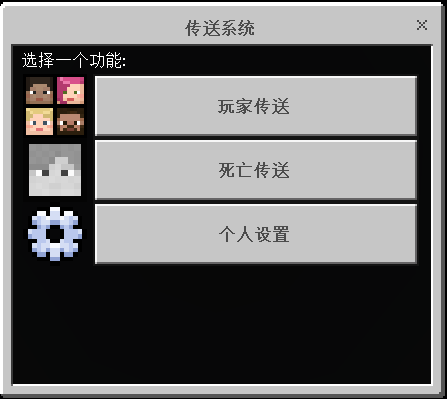
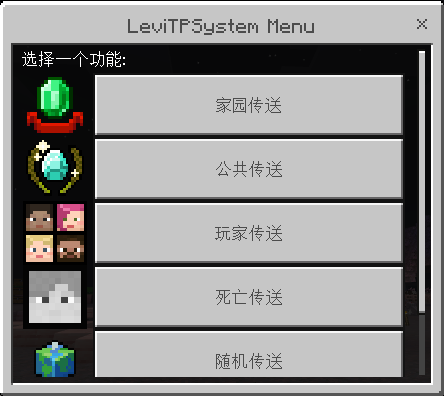
8.5.0官网更新

diff --git a/plugins/1.md b/plugins/1.md
@@ -25,18 +25,44 @@
 
 ![alt text](/public/1-3.png)
 
+## Home 命令
+
+/tps home 家园传送点 GUI
+
+/tps home add <name: string> 添加一个家
+
+/tps home del <name: string> 删除一个家
+
+/tps home go <name: string> 前往家
+
+/tps home list 列出所有家
+![alt text](/public/1-8.png)
+
+## 公共传送点 命令
+
+/tps warp 公共传送点 GUI
+
+/tps warp add <name: string> 添加一个公共传送点（权限组允许）
+
+/tps warp del <name: string> 删除一个公共传送点（权限组允许）
+
+/tps warp go <name: string> 前往公共传送点
+
+/tps warp list 列出所有公共传送点
+![alt text](/public/1-7.png)
+
 ## Back 命令：
 
-/tps back 返回死亡点 GUI（玩家）
+/tps back 返回死亡点 GUI
 
 ![alt text](/public/1-4.png)
 
 ## 其他命令：
 
-/tps death 查询死亡信息（玩家）
+/tps death 查询死亡信息
 
 ![alt text](/public/1-5.png)
 
-/tps rule 打开规则配置（玩家）
+/tps rule 打开规则配置
 
 ![alt text](/public/1-2.png)

diff --git a/README.md b/README.md
@@ -11,6 +11,7 @@
 - [√] 优化良好
 - [√] 机制完善
 - [√] 问题修复有效率
+- [√] 杜绝一切作弊行为
 
 ## 服务器插件功能
 
@@ -18,11 +19,13 @@
 - [√] 基于原版进一步的辅助插件
 - [√] 群组互通
 - [√] QBOT 绑定游戏
+- [√] 怪物数值增强
+- [√] 超越底层代码的机制
 
 ## 服务器版本/信息
 
-地图种子：241001
-[点我快速跳转种子网站](https://www.chunkbase.com/apps/seed-map#seed=241001&platform=bedrock_1_21&dimension=overworld&x=0&z=0&zoom=0.5)<br/>模拟距离：8<br/>
+地图种子：241208
+[点我快速跳转种子网站](https://www.chunkbase.com/apps/seed-map#seed=241208&platform=bedrock_1_21&dimension=overworld&x=0&z=0&zoom=0.5)<br/>模拟距离：12<br/>
 [1.21.x](https://mc.minebbs.com/version/409)<br/>
 [![alt text](/public/版本.png)](https://mc.minebbs.com/version/409)<br/>
 注：点击图片或版本号可以跳转对应服务器版本的下载链接

diff --git a/index.md b/index.md
@@ -38,10 +38,8 @@ features:
 
 ```点我可以复制哦~
 版本：基岩版1.21.x (不支持1.21.2x)
-IP：敬请期待
-端口：敬请期待
+IP：45.125.45.74
+端口：52700
 ```
 
 ## 阿什么？<br/>你并未获邀在此服务器上进行游戏？<br/>进群修改群昵称为游戏 ID 发送"绑定"(不包括引号)即可进服
-
-## 阿什么？<br/>你并未通过入服考试？<br/>去群文件刷刷题吧孩子

diff --git a/plugins/4.md b/plugins/4.md
@@ -1,4 +1,4 @@
-# AutoReplenishment - 自动替换工具与补充物品
+# AutoReplenishment - 自动替换工具与补充物品 XXXX
 
 > 玩家们可以使用这个插件来做到自动替换工具和自动补充方块
 

diff --git a/plugins/18.md b/plugins/18.md
@@ -1,4 +1,4 @@
-# Change - 玩家付费更换天气/时间
+# Change - 玩家付费更换天气/时间 XXXX
 
 > 玩家们可以使用这个插件做到付费更换天气/时间插件
 

diff --git a/plugins/8.md b/plugins/8.md
@@ -1,4 +1,4 @@
-# FuckNetherHeight - 突破下界高度
+# FuckNetherHeight - 突破下界高度 XXXX
 
 > 玩家们可以使用这个插件做到地狱基岩层上空放置方块
 

diff --git a/plugins/6.md b/plugins/6.md
@@ -1,4 +1,4 @@
-# DeathChest - 死亡掉落箱
+# DeathChest - 死亡掉落箱(资源服)
 
 > 玩家们可以使用这个插件做到死亡掉落的物品被箱子包裹
 

diff --git a/plugins/11.md b/plugins/11.md
@@ -1,4 +1,4 @@
-# HealthShow - 攻击显示血量
+# HealthShow - 攻击显示血量 XXXX
 
 > 玩家们可以使用这个插件做到攻击生物的时候显示血量
 

diff --git a/plugins/17.md b/plugins/17.md
@@ -1,4 +1,4 @@
-# ToolRoBot - 假人系统
+# ToolRoBot - 假人系统 XXXX
 
 > 玩家们可以使用这个插件做到生成一个属于自己的假人
 

diff --git a/plugins/9.md b/plugins/9.md
@@ -1,4 +1,4 @@
-# FuckZombifiedPiglin - 禁用猪人塔
+# FuckZombifiedPiglin - 禁用猪人塔 XXXX
 
 > 玩家不再能使用猪人塔卡服
 

diff --git a/plugins/19.md b/plugins/19.md
@@ -1,4 +1,4 @@
-# Practice_God - 修仙系统
+# Practice_God - 修仙系统 XXXX
 
 > 玩家们可以使用这个插件做到在 MC 中修仙
 

diff --git a/plugins/12.md b/plugins/12.md
@@ -1,4 +1,4 @@
-# IronElevator - 铁块电梯
+# IronElevator - 铁块电梯 XXXX
 
 > 玩家们可以使用这个插件做到快速上下层
 
